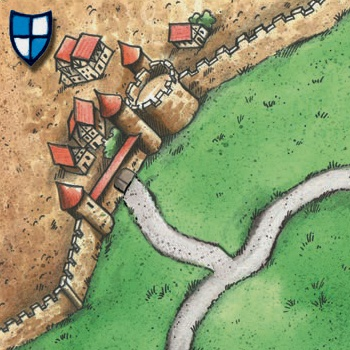
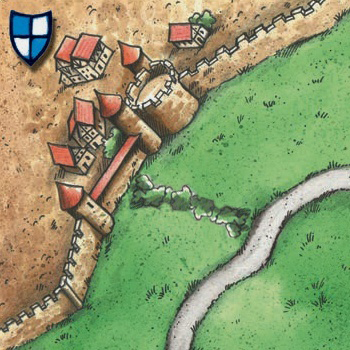
1 new card + bushes instead of road to city

Changed region(s): [[0.3143, 0.4571, 0.7143, 0.8]]

diff --git a/src/StatisticsWindow.cpp b/src/StatisticsWindow.cpp
@@ -5,6 +5,7 @@
 #include <wx/grid.h>
 #include <wx/dcbuffer.h>
 #include "StatisticsWindow.h"
+#include <algorithm>
 
 
 StatisticsWindow::StatisticsWindow(wxWindow* parent,
@@ -12,6 +13,7 @@ StatisticsWindow::StatisticsWindow(wxWindow* parent,
                                    const std::vector<std::tuple<wxString, wxColor, std::vector<int>>>& pts)
     : StatisticsWindow_B(parent), pts_(pts)
 {
+  SetWindowStyleFlag(GetWindowStyle() | wxSTAY_ON_TOP);
   graph_panel_->SetBackgroundStyle(wxBG_STYLE_PAINT);
   const auto& [col_labels, row_labels, data] = stats;
   stats_grid_->AppendRows(row_labels.size());
